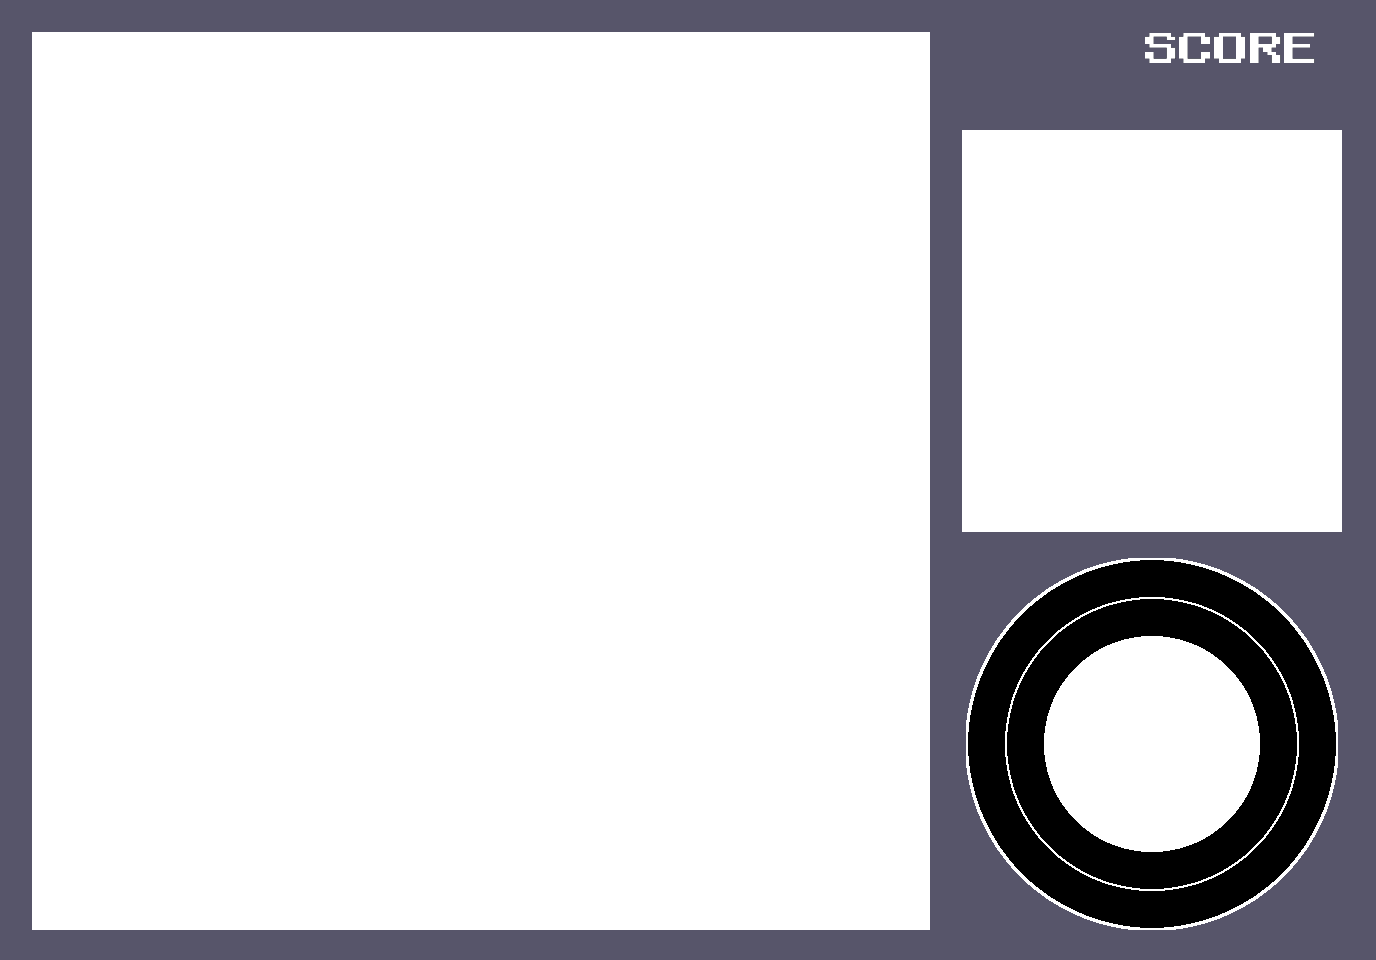
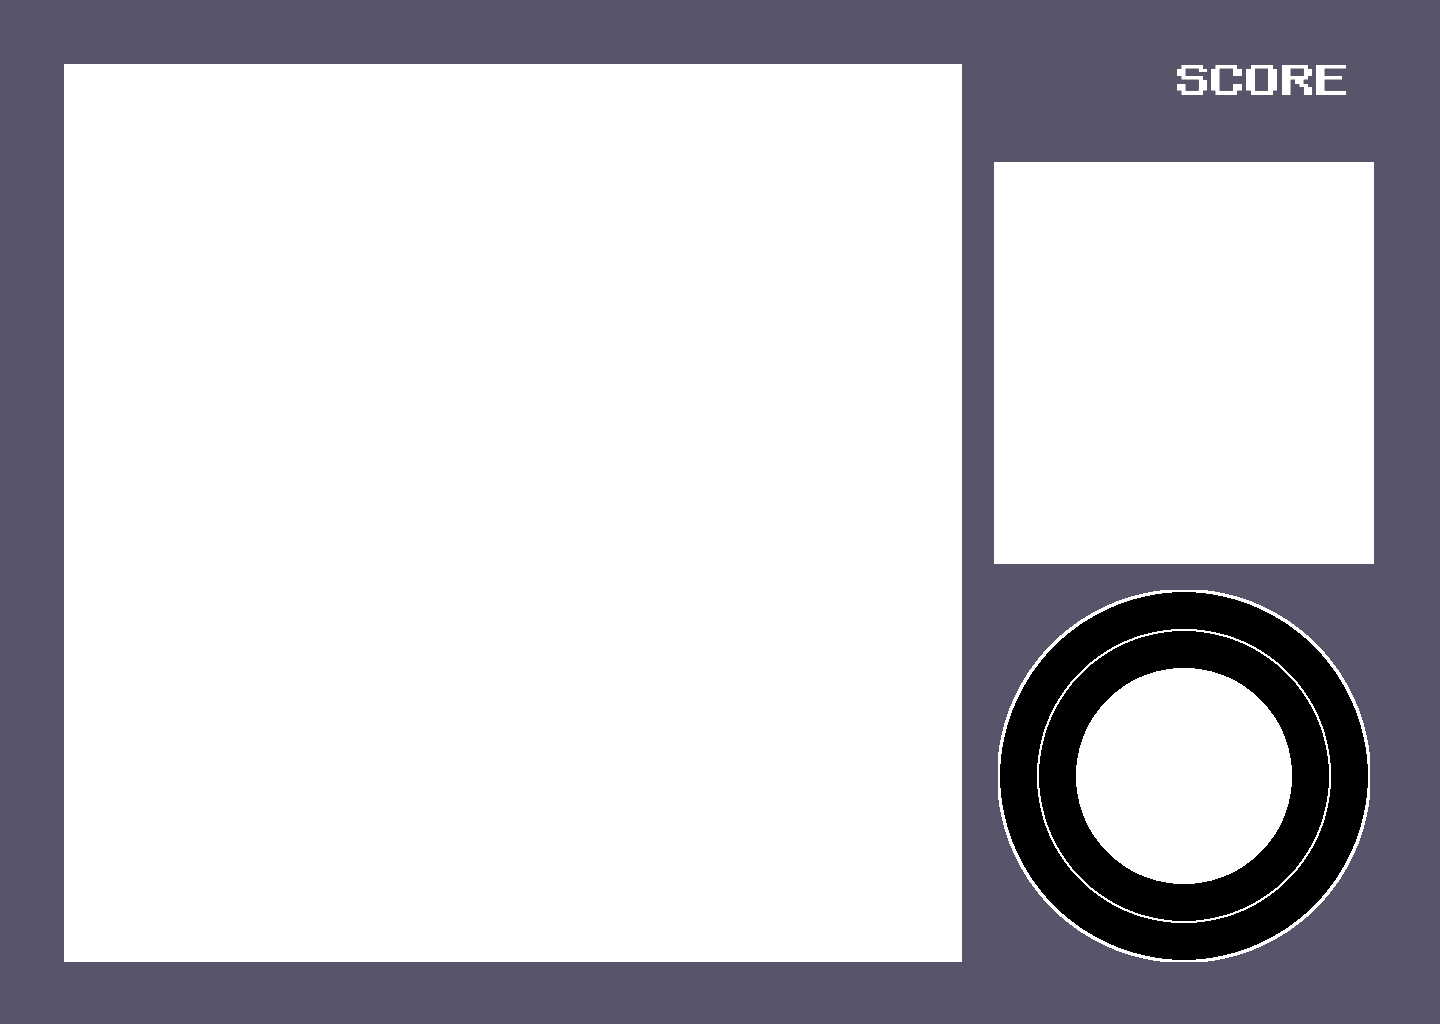
レイアウト修正

Changed region(s): [[0.0, 0.0312, 1.0, 0.9688], [0.8125, 0.0312, 0.9688, 0.0938]]

diff --git a/main.cpp b/main.cpp
@@ -963,7 +963,7 @@ int WINAPI WinMain(_In_ HINSTANCE hInstance, _In_opt_ HINSTANCE hPrevInstance, _
 				}
 
 				player->D(randX, randY);
-				DrawGraph(0 + randX, 0 + randY, Layout, true);
+				DrawGraph(-32 + randX, -32 + randY, Layout, true);
 				if (damageflag == 0) {
 					DrawGraph(962 + randX, 130 + randY, player_img[maba2], true);
 				}
@@ -1105,7 +1105,7 @@ int WINAPI WinMain(_In_ HINSTANCE hInstance, _In_opt_ HINSTANCE hPrevInstance, _
 
 				player->D(randX, randY);//itemback
 				enemy[0]->Draw(0);
-				DrawGraph(0, 0, Layout, true);
+				DrawGraph(-32, -32, Layout, true);
 				
 				score->Draw(randX, randY);
 				player->TutorialDraw(randX, randY,keys);
